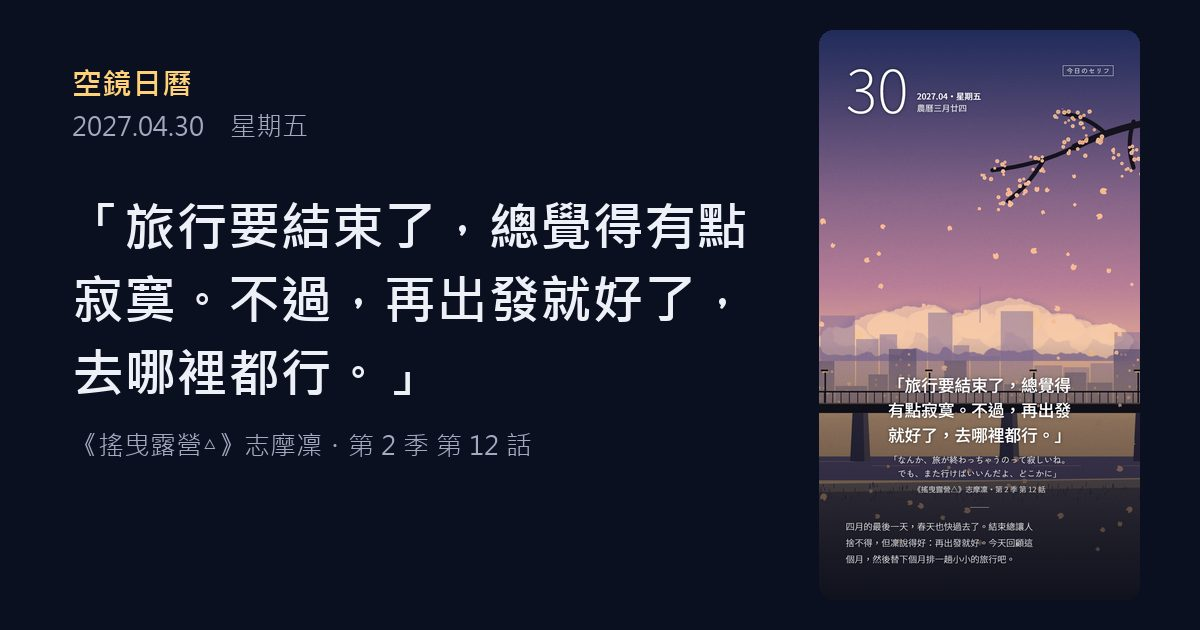
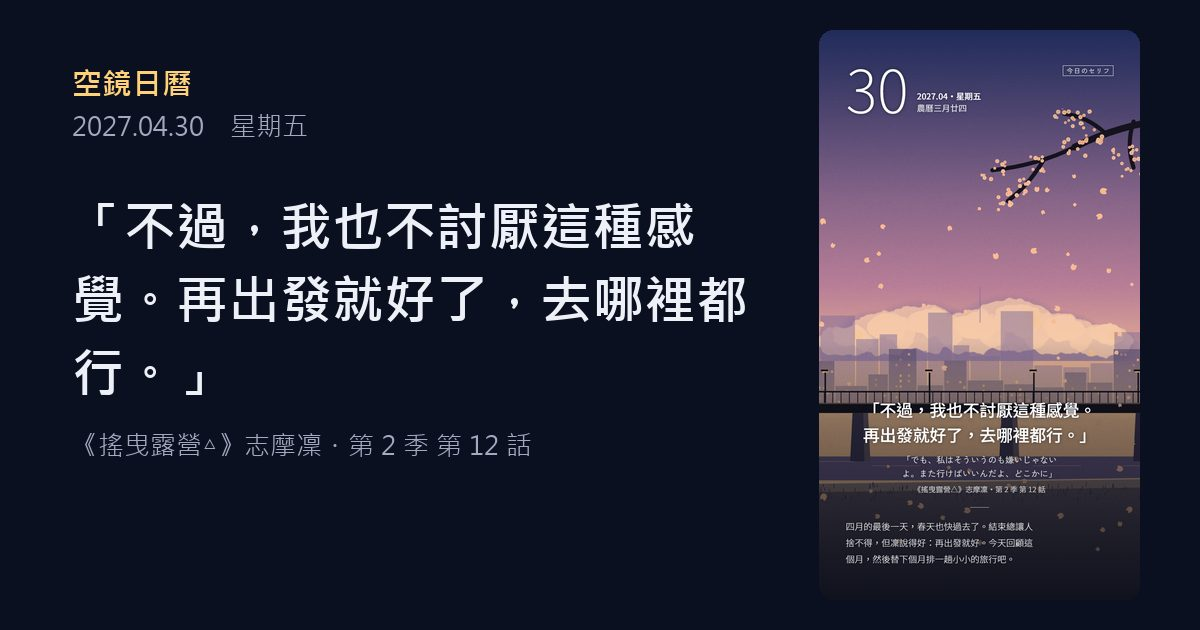
2027-04-30 搖曳露營台詞只留凜說的部分（原本併入撫子的上一句）

diff --git a/d/20270430.html b/d/20270430.html
@@ -4,11 +4,11 @@
 <meta charset="utf-8">
 <meta name="viewport" content="width=device-width, initial-scale=1">
 <title>空鏡日曆・4月30日</title>
-<meta name="description" content="「旅行要結束了，總覺得有點寂寞。不過，再出發就好了，去哪裡都行。」── 《搖曳露營△》志摩凜・第 2 季 第 12 話">
+<meta name="description" content="「不過，我也不討厭這種感覺。再出發就好了，去哪裡都行。」── 《搖曳露營△》志摩凜・第 2 季 第 12 話">
 <meta property="og:type" content="article">
 <meta property="og:site_name" content="空鏡日曆">
 <meta property="og:title" content="空鏡日曆・4月30日">
-<meta property="og:description" content="「旅行要結束了，總覺得有點寂寞。不過，再出發就好了，去哪裡都行。」── 《搖曳露營△》志摩凜・第 2 季 第 12 話">
+<meta property="og:description" content="「不過，我也不討厭這種感覺。再出發就好了，去哪裡都行。」── 《搖曳露營△》志摩凜・第 2 季 第 12 話">
 <meta property="og:url" content="https://eaglechu-hub.github.io/anime-quote-calendar/d/20270430.html">
 <meta property="og:image" content="https://eaglechu-hub.github.io/anime-quote-calendar/og/20270430.jpg">
 <meta property="og:image:width" content="1200">
